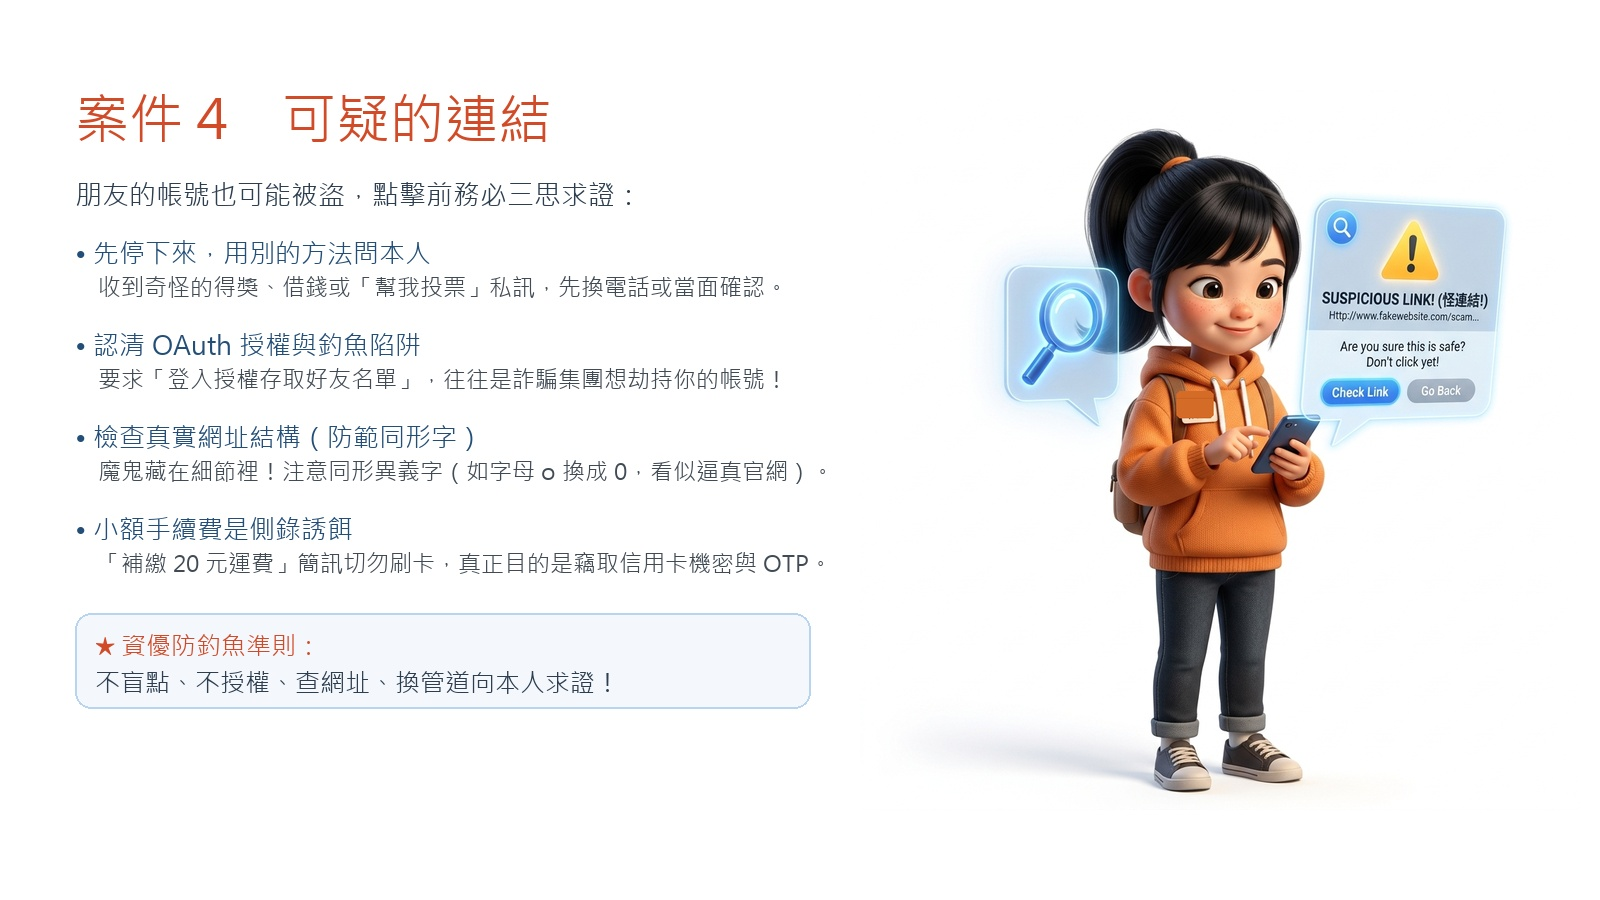
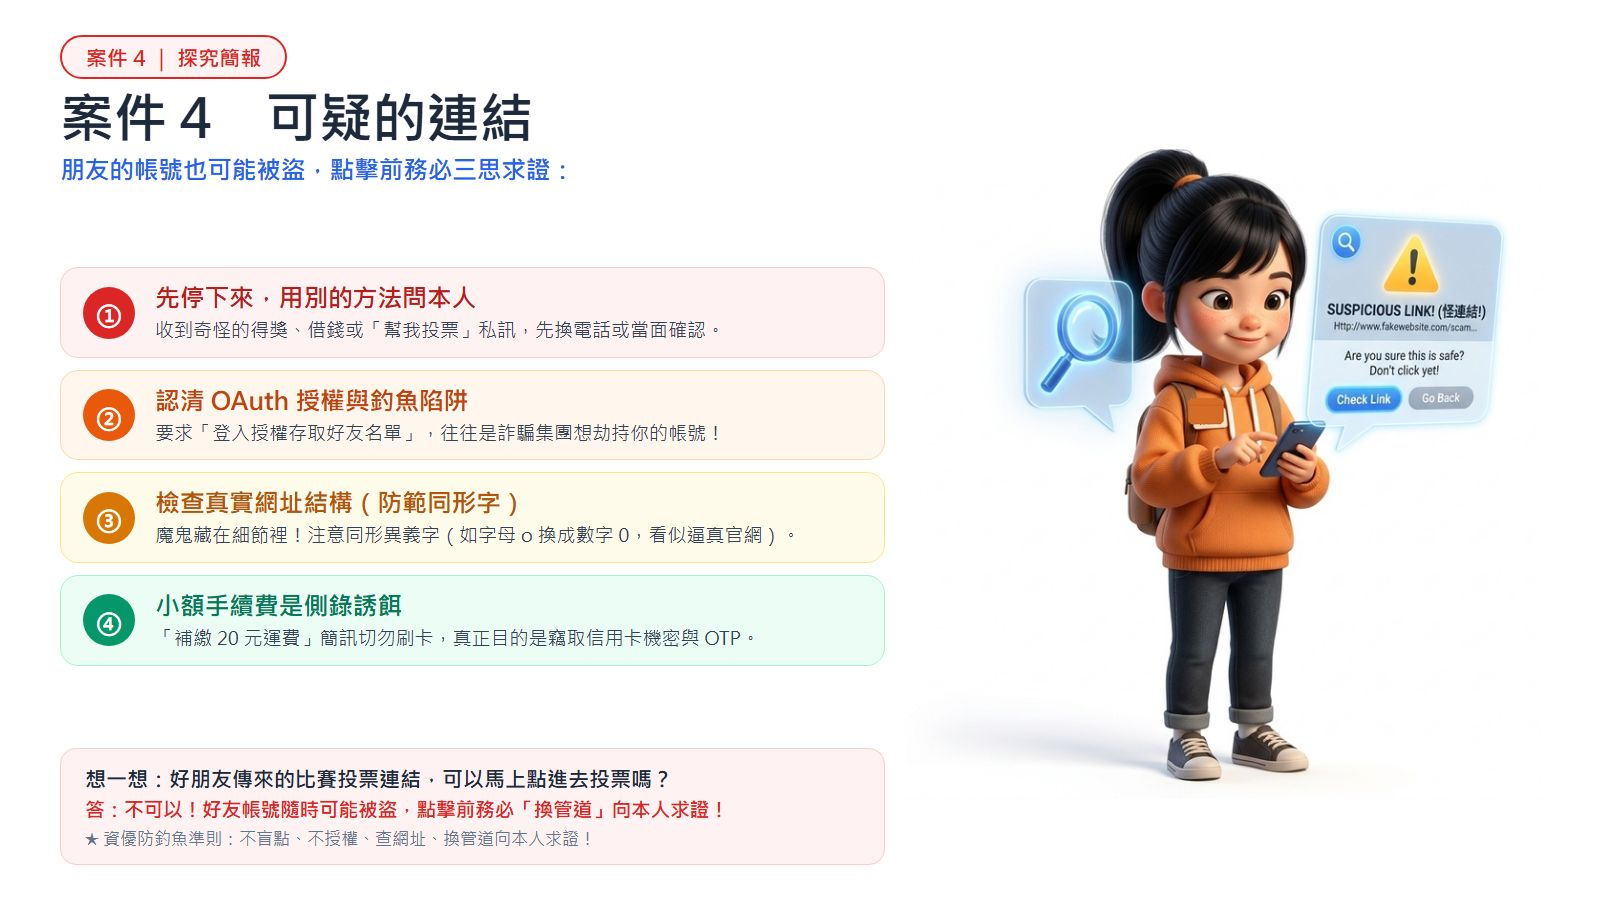
feat(case4): 升級案件4簡報與資訊圖表至四彩大字體無遮擋版並更新快取碼

diff --git a/units/g5-cyber-safety/index.html b/units/g5-cyber-safety/index.html
@@ -475,7 +475,7 @@
         {
           title: '案件 4　可疑的連結',
           text: '朋友的帳號也可能被盜。收到奇怪的連結或要求時，<b>先停下來，用別的方法問本人</b>，必要時撥 165 反詐騙專線。',
-          slides: ['assets/v4_phish_v2.jpg?v=20261023f'],
+          slides: ['assets/v4_phish_v2.jpg?v=20261024_case4_phish_aligned'],
           interactive: GAMES.scamChat,
           quizzes: [
             {
@@ -491,7 +491,7 @@
               feedback: '小額手續費是詐騙集團降低心防的誘餌，其真正目的是竊取卡片機密與簡訊 OTP 驗證碼，隨後在海外發動數萬元的盜刷。'
             }
           ],
-          infographic: 'assets/i4_net_v3.jpg?v=20261023_wider?v=20261023f',
+          infographic: 'assets/i4_net_v3.jpg?v=20261024_case4_phish_aligned',
           teacherTips: ['翔翔案例的討論題保留：電腦為什麼會這樣？如果是你，會不會點表哥的連結？', '原「牛刀小試」兩題已改寫成上面的想一想（天堂遊戲郵件、即時通 → 遊戲寶物私訊、LINE 借點數）。']
         },
         {

diff --git a/handoff.md b/handoff.md
@@ -63,22 +63,31 @@
     - 簡報標籤升級為標準紅框紅字「案件 3 ｜ 探究簡報」，資訊圖表升級為標準紅框紅字「案件 3 ｜ 探究思維圖解」。
     - 充裕呼吸留白：文字卡片與右側 3D 小男孩浮空積木之間保留 **130px** 舒適間距，盾牌金光與邊框完全零貼邊、零重疊。
     - 小男孩向上切齊第一張卡片頂部，鞋底與底部想一想框水平齊平，底邊維持全站標準 54px 舒適留白。
-    - 經 Kristy 檢視預覽確認許可（"OK"）後，正式覆蓋寫入正式目錄並更新 `index.html` 快取碼（`?v=20261024_case3_privacy_aligned`）。
+- **依據 Kristy 最新指導完成案件 4 全面升級與極致字體清晰化（2026-10-24 13:40）**：
+  - **案件 4 探究簡報（`final_case4.jpg`、`v4_phish_v2.jpg`）與資訊圖表（`i4_net_v3.jpg`）**：
+    - 簡報標籤升級為標準紅框紅字「案件 4 ｜ 探究簡報」，資訊圖表升級為「案件 4 ｜ 探究思維圖解」。
+    - 簡報淘汰傳統條列，全面升級為標準四彩卡片（先停下來、OAuth授權、真實網址、小額手續費）＋底部「想一想」互動問答提示框。
+    - 依 Kristy 意見「可以的範圍內再大一點」：在保留 80px 充裕呼吸空間的前提下，卡片標題加大至 **24.5px**、內文說明加大至 **19px**、序號圈圈加大至 **52px**，底部金律提示框加大至 **21.5px**，後排學生與電子白板投影辨識度極高。
+    - 乾淨無瑕素材：高馬尾女孩怡君手持手機，身旁浮空警告視窗「SUSPICIOUS LINK!」與放大鏡完整入鏡，零遮擋、零貼邊。
+    - 經 Kristy 檢視預覽確認許可（"OK"）後，正式覆蓋寫入正式目錄並更新 `index.html` 快取碼（`?v=20261024_case4_phish_aligned`）。
 - 已全自動完成 `git commit`、`git push origin main` 與 Google 雲端硬碟 `robocopy` 雙重備份！
 
 ## 🚦 目前狀態
-- 案件 1、案件 2、案件 3、案件 6 的所有投影片與資訊圖表皆已完美定稿、對齊無遮擋並發布至 GitHub Pages！
+- 案件 1、案件 2、案件 3、案件 4、案件 6 的所有投影片與資訊圖表皆已完美定稿、對齊無遮擋並發布至 GitHub Pages！
 - 教學影片播放清單（含《2020》網路危機等 4 部短片）已上線。
 
 ## ➡ 下一步
-1. 依 Kristy 指示推進下一個案件的圖片檢視與修正（如案件 4、案件 5、案件 8 小美自拍、案件 9 釣魚等）。
-2. 持續依 Kristy 指導推進其他單元或教材細節。
+1. 依 Kristy 指示推進下一個案件的圖片檢視與修正（如案件 5 阿嬤假電話、案件 7 偷拍照片、案件 8 小美限動自拍、案件 9 釣魚等）。
+2. 案件 8 目前 `index.html` 誤連至 `v10_game_v2.jpg`，實際已有小美自拍限動 `d1_story.jpg` 與數位足跡 `d2_footprint.jpg`。
+3. 案件 9 目前 `index.html` 誤連至 `v11_bully_v2.jpg`，實際已有帥氣放大鏡小男孩 `final_case9_phish.jpg`。
+4. 案件 10、11 目前無 `slides` 投影片，需補齊。
 
 ## ⚠ 注意事項
 - 嚴格遵守「做好先給 Kristy 看，確認後才放」原則。
 - 所有插圖角色自然多元（小男孩、小女孩、阿嬤、同儕），全數統一為 16:9 純白底繪本規格。
 
 ## 🕐 最後更新
-- 時間：2026-10-24 12:46
+- 時間：2026-10-24 13:42
 - 更新者：Antigravity @ LAPTOP-IUMJF2MM
+
 
